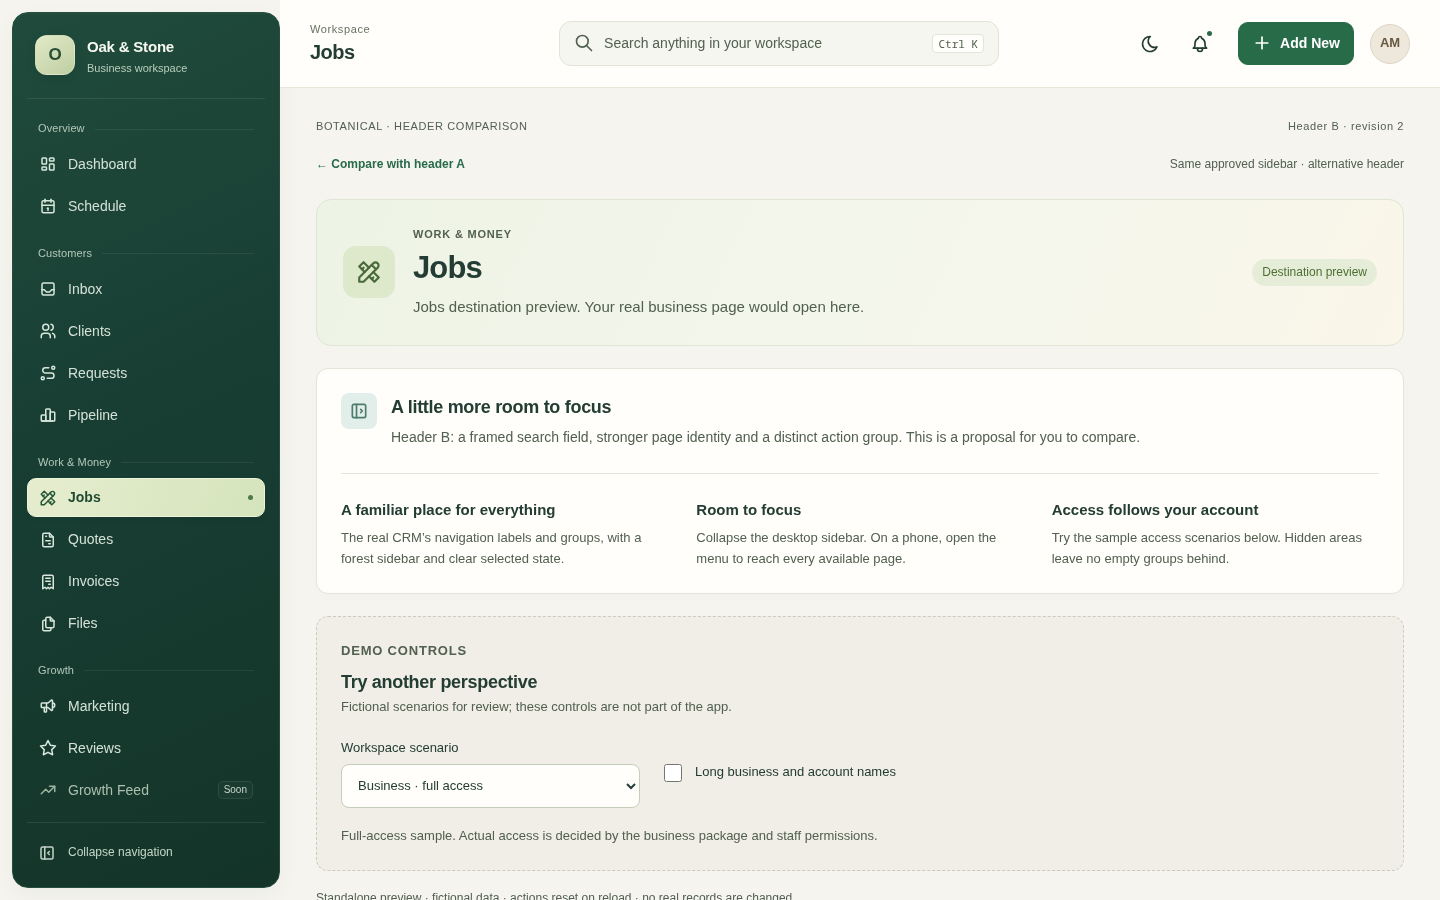
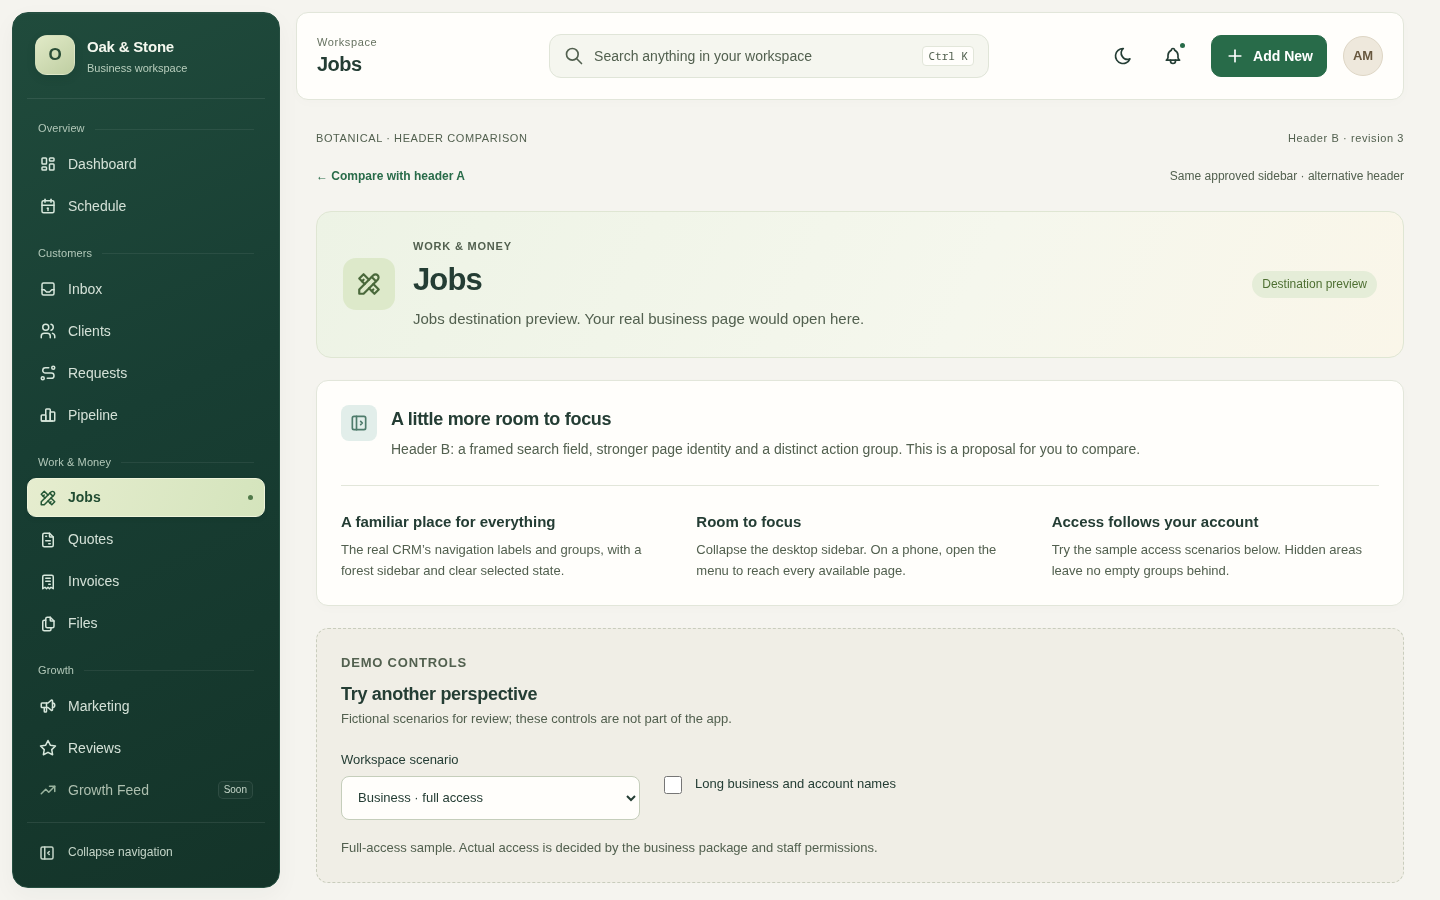
Polish desktop header inset and sidebar spacing

diff --git a/static/demo/header-option-b/index.html b/static/demo/header-option-b/index.html
@@ -1,6 +1,6 @@
 <!doctype html>
 <html lang="en">
-<head><meta charset="utf-8"><meta name="viewport" content="width=device-width,initial-scale=1"><meta name="robots" content="noindex"><title>Botanical · Header option B</title><link rel="stylesheet" href="../app-shell-v2/styles.css?v=sidebar-v2-2"><link rel="stylesheet" href="styles.css?v=header-b-2"><script type="module" src="../app-shell-v2/demo.js?v=sidebar-v2-2"></script></head>
+<head><meta charset="utf-8"><meta name="viewport" content="width=device-width,initial-scale=1"><meta name="robots" content="noindex"><title>Botanical · Header option B</title><link rel="stylesheet" href="../app-shell-v2/styles.css?v=sidebar-v2-2"><link rel="stylesheet" href="styles.css?v=header-b-3"><script type="module" src="../app-shell-v2/demo.js?v=sidebar-v2-2"></script></head>
 <body>
 <a class="skip" href="#main">Skip to content</a>
 <div class="shell" id="shell">
@@ -18,7 +18,7 @@
 </div>
 </header>
 <main class="content" id="main" tabindex="-1">
-<div class="content__eyebrow"><span>BOTANICAL · HEADER COMPARISON</span><span>Header B · revision 2</span></div>
+<div class="content__eyebrow"><span>BOTANICAL · HEADER COMPARISON</span><span>Header B · revision 3</span></div>
 <p class="variant-compare"><a href="../app-shell-v2/index.html?compare=header-b">← Compare with header A</a><span>Same approved sidebar · alternative header</span></p>
 <section class="hero" aria-labelledby="page-title">
 <div class="hero__icon" data-icon="tools"></div>

diff --git a/static/demo/header-option-b/styles.scss b/static/demo/header-option-b/styles.scss
@@ -27,3 +27,17 @@
    &__actions { gap: 0; } &__create { margin-inline: 3px; width: 40px; min-height: 40px; } &__avatar { width: 36px; height: 36px; }
  }
 }
+
+// Revision 3: coordinate the desktop header with the inset navigation panel.
+@media (min-width: 768px) {
+ .header {
+  margin: 12px 36px 0 16px;
+  padding-inline: 20px;
+  border: 1px solid #e2e6da;
+  border-radius: 12px;
+  box-shadow: 0 3px 12px #34483304;
+ }
+}
+@media (min-width: 768px) and (max-width: 1100px) {
+ .header { margin-right: 24px; padding-inline: 16px; }
+}

diff --git a/static/demo/header-option-b/styles.css b/static/demo/header-option-b/styles.css
@@ -121,3 +121,18 @@
     height: 36px;
   }
 }
+@media (min-width: 768px) {
+  .header {
+    margin: 12px 36px 0 16px;
+    padding-inline: 20px;
+    border: 1px solid #e2e6da;
+    border-radius: 12px;
+    box-shadow: 0 3px 12px rgba(52, 72, 51, 0.0156862745);
+  }
+}
+@media (min-width: 768px) and (max-width: 1100px) {
+  .header {
+    margin-right: 24px;
+    padding-inline: 16px;
+  }
+}

diff --git a/Memory/campaigns/uplift-design-refresh/NOW.md b/Memory/campaigns/uplift-design-refresh/NOW.md
@@ -3,9 +3,9 @@
 **Goal:** A premium, modern, polished, colourful CRM, delivered through small demos Jafar reviews before implementation.
 **Plan:** `docs/uplift-design-refresh-behavior-contract.md`
 
-**State:** In progress 2026-10-11. Sidebar v2 revision 2 approved. Jafar prefers Carbon-inspired header B with a circular avatar; revision 2 applies it. Desktop web is the primary target. Background discussion and final header review remain open. Live components unchanged.
+**State:** In progress 2026-10-11. Sidebar v2 revision 2 approved. Jafar prefers Carbon-inspired header B with a circular avatar; revision 3 adds his requested inset header polish. Desktop web is the primary target. Background discussion and final header review remain open. Live components unchanged.
 
-**Next:** Review `/demo/header-option-b/index.html` revision 2 with Jafar, clarify which current background he means, and settle desktop background/header approval. Botanical reference and header B desktop images were inspected; a fresh signed-in app comparison has not been done. Then align approved header guidance and close Part 3.
+**Next:** Review `/demo/header-option-b/index.html` revision 3 with Jafar, review the requested inset spacing/corners and settle desktop background/header approval. Botanical reference and header B desktop images were inspected; a fresh signed-in app comparison has not been done. Then align approved header guidance and close Part 3.
 
 **Maintenance rule:** Keep the existing design skill and update necessary parts incrementally. Use `.claude/skills/design/alignment.md` as the reading gate: load only modules explicitly updated for the relevant redesign coverage; uncovered patterns need a focused demo, not old visual guidance. Update each relevant module after its focused demo is built and approved, before implementation.
 

diff --git a/static/demo/header-option-b/README.md b/static/demo/header-option-b/README.md
@@ -34,3 +34,8 @@ production shell behavior remain for implementation preparation; this is a focus
 Revision 2: Jafar prefers the Carbon-inspired direction and requested the original circular avatar.
 Desktop web is the primary design target; phone checks are secondary. Background comparison remains
 under discussion, so this preference does not establish final header or background approval.
+
+Revision 3: at Jafar’s request, desktop header top inset matches the sidebar’s 12px inset,
+with a 16px gap beside navigation, 12px corners and a quiet border. Its right edge aligns with
+content panels. Warm canvas, circular avatar and header controls remain. Phone layout is retained.
+This visual revision awaits review; it does not authorize live rollout.

diff --git a/Memory/campaigns/uplift-design-refresh/parts/3.md b/Memory/campaigns/uplift-design-refresh/parts/3.md
@@ -16,8 +16,8 @@
 
 ## Next
 
-Jafar prefers Carbon-inspired header B and requested a circular avatar; revision 2 applies it.
-Desktop web is the main target. Present revision 2, resolve his background question and obtain final
+Jafar prefers Carbon-inspired header B and requested a circular avatar; revision 3 adds his requested inset header polish.
+Desktop web is the main target. Present revision 3, resolve his background question and obtain final
 header approval before alignment. Botanical reference and demo images were inspected; fresh signed-in
 app imagery remains unverified. Keep live components unchanged.
 The connected app’s login screen did not reach a signed-in workspace during inspection;
